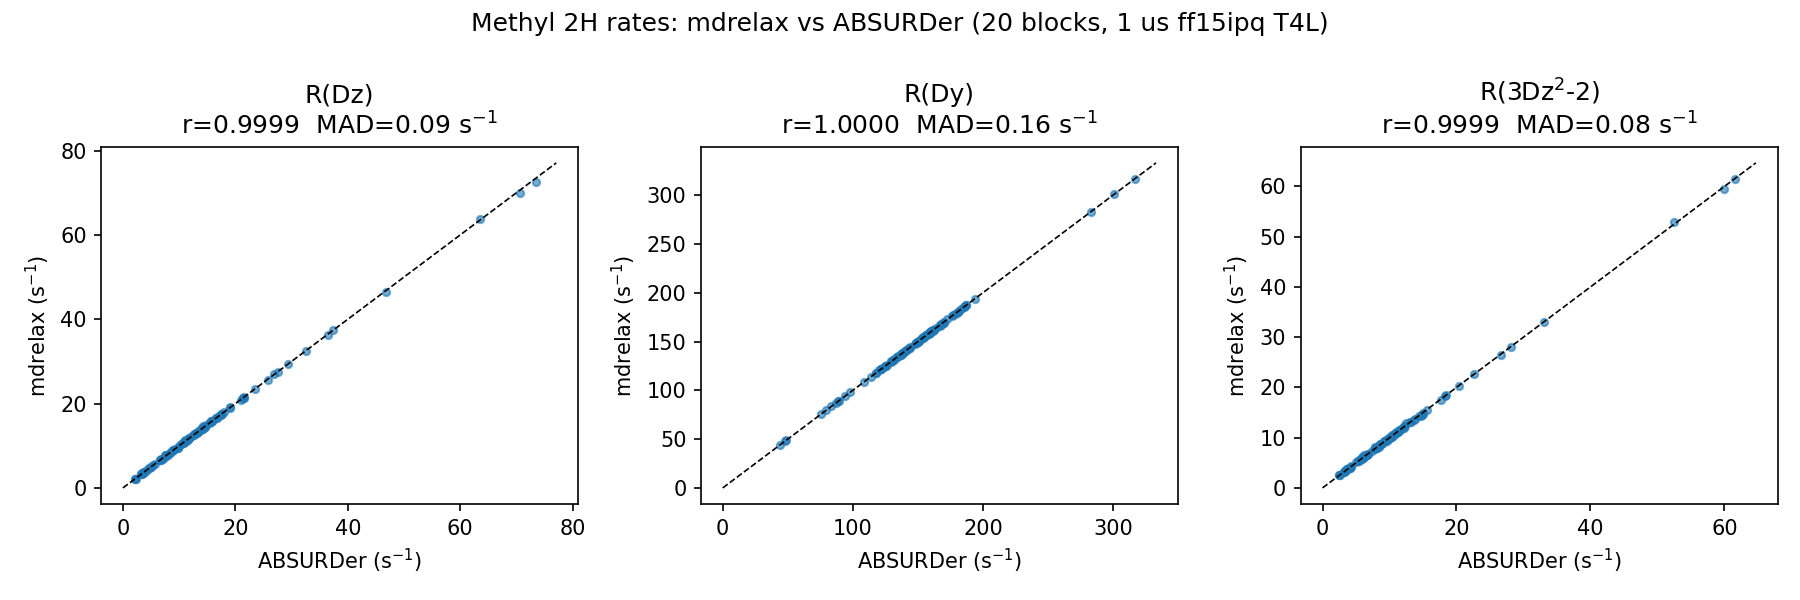
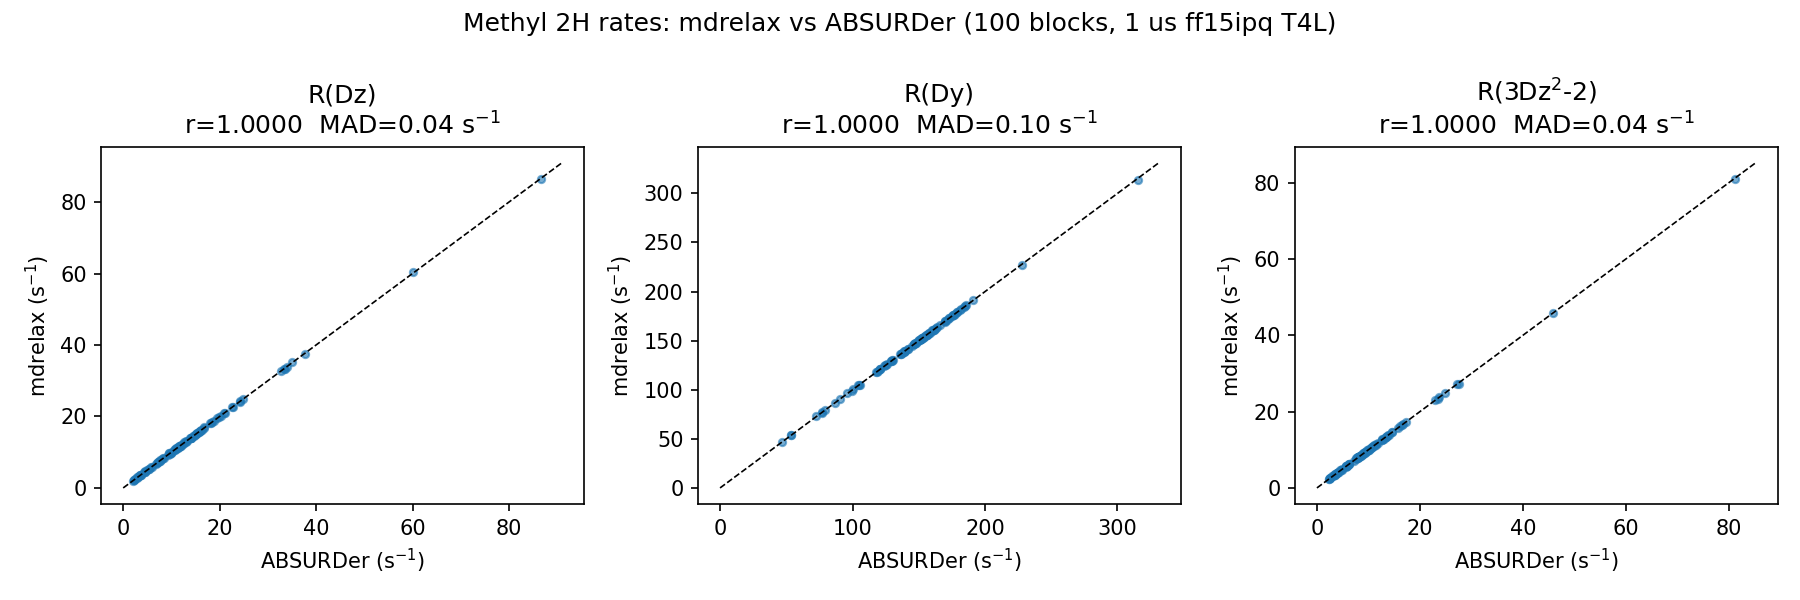
moving data to consolidated spot and update links to data path

diff --git a/examples/validate_ch3_exp.py b/examples/validate_ch3_exp.py
@@ -3,8 +3,8 @@
 
 This is the full user-facing pipeline: give it a trajectory and it computes the
 methyl C-H correlation functions, fits them, builds J(omega) and returns the three
-experimentally measured deuterium rates - R(Dz), R(Dy), R(3Dz^2-2) - which are
-then compared to the measured NMR values in ``data-ch3/experimental/``.
+experimentally measured deuterium rates: R(Dz), R(Dy), R(3Dz^2-2) - which are
+then compared to the measured NMR values in ``data/ch3/experimental/``.
 
 Nothing is precomputed here: the TCFs are calculated inside
 :class:`mdrelax.MethylRelaxation`.  Compare with ``validate_ch3.py``, which
@@ -23,7 +23,7 @@ Pass ``--estimate-tau-R`` to instead derive it from the given trajectory, which 
 the right choice when your trajectory is long compared with tau_c.
 
 Everything else (block/fit lengths, sampling) is derived from the trajectory
-itself by MethylRelaxation - nothing about the time axis is hardcoded.
+itself by MethylRelaxation; nothing about the time axis is hardcoded.
 """
 
 import argparse
@@ -38,8 +38,8 @@ import matplotlib.pyplot as plt
 from mdrelax import MethylRelaxation
 
 ROOT = Path(__file__).resolve().parent.parent
-FF = ROOT / "data-ch3-ff15ipq"
-EXP = ROOT / "data-ch3" / "experimental"
+FF = ROOT / "data" / "ch3-ff15ipq"
+EXP = ROOT / "data" / "ch3" / "experimental"
 RATE_COLS = ["R_Dz", "R_Dy", "R_3Dz2"]
 RATE_NAMES = ["R(Dz)", "R(Dy)", "R(3Dz$^2$-2)"]
 
@@ -106,7 +106,7 @@ def main():
     # --- experimental rates ------------------------------------------------
     rex = np.load(EXP / "nmr_rates.npy")            # (3, 73)
     eex = np.load(EXP / "nmr_errors.npy")           # (3, 73)
-    methyls_nmr = load_pkl(ROOT / "data-ch3" / "methyls_nmr.pkl")
+    methyls_nmr = load_pkl(ROOT / "data" / "ch3" / "methyls_nmr.pkl")
 
     missing = [l for l in methyls_nmr if norm(l) not in md]
     if missing:

diff --git a/examples/validate_ch3.py b/examples/validate_ch3.py
@@ -12,8 +12,8 @@ density / rate port alone and not to a difference in how the TCFs are built.  It
 therefore also pins ABSURDer's own run settings (accuracy, ct_lim, wD) so the two
 calculations are compared like for like.
 
-For the normal "give it a trajectory" workflow - where mdrelax computes the TCFs
-itself and derives the time axis from the trajectory - see ``validate_ch3_exp.py``
+For the normal "give it a trajectory" workflow where mdrelax computes the TCFs
+itself and derives the time axis from the trajectory, see ``validate_ch3_exp.py``
 or use :class:`mdrelax.MethylRelaxation` directly.
 """
 
@@ -31,7 +31,7 @@ from mdrelax import fitting as F, spectral_density as SD, rates as R
 from mdrelax.constants import CHI_Q
 
 ROOT = Path(__file__).resolve().parent.parent
-FF = ROOT / "data-ch3-ff15ipq" / "tcf-1us"
+FF = ROOT / "data" / "ch3-ff15ipq" / "tcf-1us"
 
 # ABSURDer run settings, pinned so the port is compared like for like against
 # their published rates.pkl (their run used `--accuracy 80 --ct_lim 2

diff --git a/tests/conftest.py b/tests/conftest.py
@@ -11,9 +11,9 @@ import pytest
 ROOT = Path(__file__).resolve().parent.parent
 
 # ── data locations ─────────────────────────────────────────────────────────
-DATA_MD_T4L = ROOT / "data-md-t4l"
-DATA_NH = ROOT / "data-nh"
-FF15IPQ = ROOT / "data-ch3-ff15ipq" / "tcf-1us"
+DATA_MD_T4L = ROOT / "data" / "md-t4l"
+DATA_NH = ROOT / "data" / "nh"
+FF15IPQ = ROOT / "data" / "ch3-ff15ipq" / "tcf-1us"
 
 T4L_PDB = DATA_MD_T4L / "sim1_dry.pdb"
 T4L_XTC = DATA_MD_T4L / "segment_001.xtc"
@@ -28,7 +28,7 @@ def _have(*paths):
 
 
 needs_t4l = pytest.mark.skipif(
-    not _have(T4L_PDB, T4L_XTC), reason="data-md-t4l trajectory not present")
+    not _have(T4L_PDB, T4L_XTC), reason="data/md-t4l trajectory not present")
 needs_ff15ipq = pytest.mark.skipif(
     not _have(FF15IPQ / "results" / "rates.pkl"),
     reason="ff15ipq ABSURDer reference data not present")

diff --git a/examples/validate_nh.py b/examples/validate_nh.py
@@ -1,5 +1,5 @@
 #!/usr/bin/env python
-"""Backbone NH validation: MD (data-md-t4l) vs experiment (data-nh).
+"""Backbone NH validation: MD (data/md-t4l) vs experiment (data/nh).
 
 Runs the NH pipeline at 600 MHz with tau_c = 10.5 ns (from the experimental
 Diso of T4L) and overlays R1, R2 and the heteronuclear NOE against the
@@ -16,9 +16,9 @@ import matplotlib.pyplot as plt
 from mdrelax import NHRelaxation
 
 ROOT = Path(__file__).resolve().parent.parent
-PDB = ROOT / "data-md-t4l" / "sim1_dry.pdb"
-XTC = ROOT / "data-md-t4l" / "segment_001.xtc"
-EXP = ROOT / "data-nh" / "600MHz-R1R2NOE.dat"
+PDB = ROOT / "data" / "md-t4l" / "sim1_dry.pdb"
+XTC = ROOT / "data" / "md-t4l" / "segment_001.xtc"
+EXP = ROOT / "data" / "nh" / "600MHz-R1R2NOE.dat"
 
 
 def main():

diff --git a/tests/test_nh.py b/tests/test_nh.py
@@ -28,7 +28,7 @@ def test_nh_output_shape_and_finiteness(nh_df):
 
 @needs_t4l
 def test_nh_deterministic_snapshot(nh_df):
-    # Values computed with this pipeline on data-md-t4l at 600 MHz, tau_c=10.5 ns.
+    # Values computed with this pipeline on data/md-t4l at 600 MHz, tau_c=10.5 ns.
     # Tolerances catch regressions while allowing tiny platform fit differences.
     assert nh_df["R1"].mean() == pytest.approx(1.126, abs=0.03)
     assert nh_df["R2"].mean() == pytest.approx(13.08, abs=0.3)

diff --git a/README.md b/README.md
@@ -8,13 +8,13 @@ Nuclear spin-relaxation rates from MD simulation trajectories.
 * **Side-chain methyl ²H**: the three experimentally measured rates R(D_z),
   R(D_y), and R(3D_z²−2) (quadrupolar order).
 
-It is a pure-Python (numpy / scipy / MDAnalysis) reimplementation of the standard
-model-free (backbone) and spectral-density-mapping (methyl) workflows. The methyl
-path reproduces the [ABSURDer](https://github.com/felixkum/ABSURDer) results
+This is a pure-Python (numpy / scipy / MDAnalysis) reimplementation of standard
+model-free (backbone) and spectral-density-mapping (methyl) workflows for NMR 
+relaxation calculations. The methyl relaxation calculations are based on the ones 
+from [ABSURDer](https://github.com/KULL-Centre/ABSURDer), but now all in Python /
 **without** GROMACS, pdbinertia, or quadric_diffusion: the per-methyl tumbling
 time τ_R is obtained from a pure-Python rotational diffusion-tensor fit, which
-reproduces pdbinertia and quadric_diffusion on their own ubiquitin test case
-(see [Validation](#validation)).
+reproduces pdbinertia and quadric_diffusion on the ubiquitin test case.
 
 ## Install
 
@@ -54,7 +54,7 @@ By default `MethylRelaxation` does not assume: it fits **all three and picks
 between them with an F-test**, the criterion quadric's output is built around.
 That costs ~0.5 s against the minutes the correlation functions take, so it is
 free in practice. Pass `diffusion_model="axial"` (or `"iso"`/`"aniso"`) to force
-one — e.g. for ABSURDer parity — and it is ignored entirely if you supply
+one (e.g. for ABSURDer parity) and it is ignored entirely if you supply
 `tau_R_ns` yourself. The fit used is left on `.diffusion`, the three candidates
 on `.diffusion_trials`.
 
@@ -112,6 +112,11 @@ mdrelax/
   cli.py               mdrelax-nh / mdrelax-methyl entry points
 reference/absurder/    original ABSURDer scripts (provenance / cross-check)
 examples/              validate_nh.py, validate_ch3.py, validate_ch3_exp.py
+data/                  reference data (see Validation)
+  nh/                  experimental backbone R1/R2/NOE at 500/600/800 MHz
+  ch3/                 experimental methyl NMR rates + ABSURDer reweighting data
+  ch3-ff15ipq/         ABSURDer TCFs, tau_R and rates, 1 us ff15ipq T4L
+  md-t4l/              10 ns T4L test trajectory
 tests/                 pytest suite
   data/ubq/            pdbinertia + quadric ubiquitin test case (their outputs)
 ```
@@ -145,8 +150,8 @@ pytest -q
   test rotates the input frame and checks the tensor co-rotates. Those F values
   are also what the default model selection consumes: it lands on `axial` for
   ubiquitin, its accepted description.
-* **Backbone NH** on `data-md-t4l` (10 ns T4L) vs experimental 600 MHz data
-  (`data-nh`): mean R₁ 1.13 vs 1.18, R₂ 13.1 vs 13.9, NOE 0.86 vs 0.79 s⁻¹.
+* **Backbone NH** on `data/md-t4l` (10 ns T4L) vs experimental 600 MHz data
+  (`data/nh`): mean R₁ 1.13 vs 1.18, R₂ 13.1 vs 13.9, NOE 0.86 vs 0.79 s⁻¹.
   Per-residue detail is limited by the short trajectory; magnitudes are correct.
   → `python examples/validate_nh.py`
 * **Methyl ²H** — two cross-checks with deliberately different scope:
@@ -156,7 +161,7 @@ pytest -q
     (`accuracy`, `ct_lim`, `wD`) to compare like for like. Reproduces all three
     rates at **r > 0.9999, MAD < 0.2 s⁻¹**. The pure-Python τ_R matches the
     pdbinertia+quadric reference to ~0.15 ns (Diso within ~1.3 %).
-  * **vs experiment** (`data-ch3/experimental/`, 73 measured methyls @ 950 MHz)
+  * **vs experiment** (`data/ch3/experimental/`, 73 measured methyls @ 950 MHz)
     — `examples/validate_ch3_exp.py`. The real workflow: hand it a trajectory
     and `MethylRelaxation` computes the TCFs itself, deriving the whole time
     axis from the trajectory. Accepts `--topology/--traj/--fitted/--field`, so
@@ -170,6 +175,7 @@ pytest -q
     methyls, `--lblocks_bb 1000000` for the backbone). Use `--estimate-tau-R`
     when your trajectory is long compared with τ_c.
 
-Reference data lives in `data-nh/`, `data-ch3/` (experimental NMR + ABSURDer
-reweighting data), and `data-ch3-ff15ipq/` (ABSURDer TCFs, τ_R, and rates for the
-1 µs ff15ipq T4L trajectory).
+Reference data lives under `data/`: `nh/` (experimental backbone rates),
+`ch3/` (experimental NMR + ABSURDer reweighting data), `ch3-ff15ipq/` (ABSURDer
+TCFs, τ_R, and rates for the 1 µs ff15ipq T4L trajectory), and `md-t4l/` (the
+10 ns T4L test trajectory).
